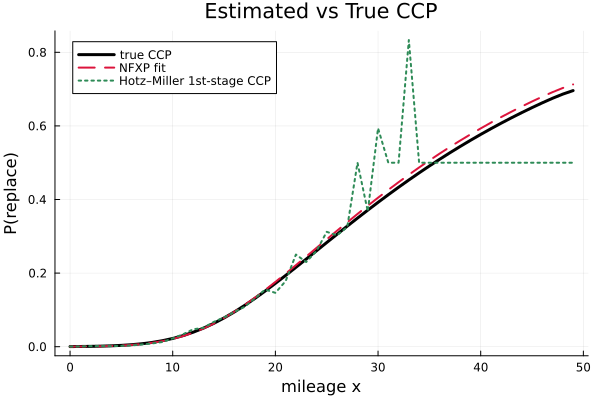
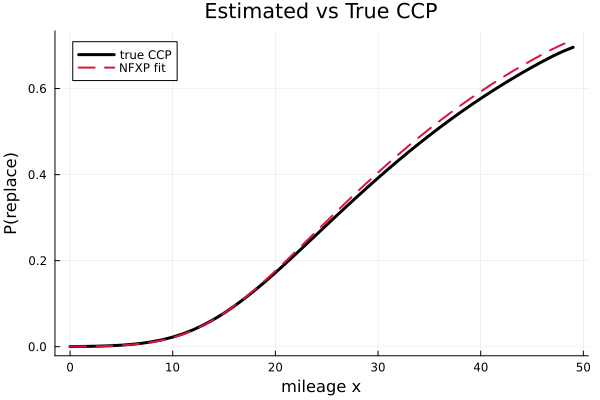
rust model update and pass through

diff --git a/rust-engine-replacement/README.md b/rust-engine-replacement/README.md
@@ -1,8 +1,6 @@
 # rust-engine-replacement-replication
 
-This repository solves **and estimates** Rust's (1987) optimal bus-engine replacement model in Julia — the paper that founded modern structural econometrics by showing how to recover a forward-looking agent's preferences from observed choices. Harold Zurcher, maintenance superintendent of the Madison Metropolitan Bus Company, watches each bus's accumulated mileage and every month decides whether to **keep** the engine (and pay rising maintenance) or **replace** it (a big fixed cost that resets the engine to new). The code solves his dynamic program by value-function iteration, then runs the full inference pipeline on simulated Harold-Zurcher data: the **Nested Fixed-Point (NFXP)** maximum-likelihood estimator (Rust 1987), the two-step **Hotz–Miller (1993)** conditional-choice-probability estimator, standard errors, a Monte-Carlo sampling-distribution study, and a counterfactual policy experiment.
-
-It is the dynamic-discrete-choice sibling of the McCall search model: where McCall has a reservation *wage*, Rust has a reservation *mileage*; both are forward-looking optimal-stopping problems, and both reduce to a single threshold. What Rust added — and what this repo is really about — is **estimation**: turning the solved model into a likelihood and recovering its deep parameters from data.
+This repository solves **and estimates** Rust's (1987) optimal bus-engine replacement model in Julia — the paper that founded modern structural econometrics by showing how to recover a forward-looking agent's preferences from observed choices. Harold Zurcher, maintenance superintendent of the Madison Metropolitan Bus Company, watches each bus's accumulated mileage and every month decides whether to **keep** the engine (and pay rising maintenance) or **replace** it (a big fixed cost that resets the engine to new). The code solves his dynamic program by value-function iteration, then runs the full inference pipeline on simulated Harold-Zurcher data: the **Nested Fixed-Point (NFXP)** maximum-likelihood estimator (Rust 1987), standard errors, a Monte-Carlo sampling-distribution study, and a counterfactual policy experiment.
 
 ---
 
@@ -13,22 +11,20 @@ It is the dynamic-discrete-choice sibling of the McCall search model: where McCa
 Each period Zurcher sees a bus at mileage state `x` and chooses `d ∈ {keep, replace}`:
 
 - **Keep** (`d = 0`): pay maintenance cost `c(x) = θ₁·x`. The engine ages — next period's mileage is higher, so next period's maintenance is higher too.
-- **Replace** (`d = 1`): pay a fixed replacement cost `RC`, and the engine is **good as new** (mileage resets to zero, then starts climbing again).
+- **Replace** (`d = 1`): pay a fixed replacement cost `RC`, and the engine is new (mileage resets to zero, then starts climbing again).
 
-The tension is **pay-a-little-forever vs. pay-a-lot-once**: maintenance is cheap today but compounds as the engine ages; replacement is expensive today but buys a fresh, cheap-to-run engine. Because today's keep raises tomorrow's costs, the decision is genuinely dynamic — Zurcher must weigh the entire future path of maintenance against the one-time `RC`.
+The tension is **pay-a-little-forever vs. pay-a-lot-once**: maintenance is cheap today but compounds as the engine ages; replacement is expensive today but buys a fresh, cheap-to-run engine. Because today's keep raises tomorrow's costs, the decision is dynamic — Zurcher must weigh the entire future path of maintenance against the one-time `RC`.
 
 ### The unobserved shocks — and why they're the whole point
 
-If that were the entire model, every bus at the same mileage would make the identical choice, and the data would show a clean mileage cutoff. Real data don't: buses at *similar* mileage make *different* choices. Rust's modeling move was to add **i.i.d. Type-I Extreme-Value (logit) shocks** `ε(keep), ε(replace)` that Zurcher observes — weather, a complaining driver, parts on hand, gut feeling — but the econometrician does not. Choices become **probabilistic**, which (a) matches the data and (b), because of two magical properties of the EV distribution, keeps everything in closed form:
+If that were the entire model, every bus at the same mileage would make the identical choice, and the data would show a clean mileage cutoff. Rust's modeling added **i.i.d. Type-I Extreme-Value (logit) shocks** `ε(keep), ε(replace)` that Zurcher observes — weather, a complaining driver, parts on hand, gut feeling — but that we do not. Choices become **probabilistic**, which (a) matches the data and (b), because of two magical properties of the EV distribution, keeps everything in closed form:
 
 | Result | Formula | What it drives |
 |---|---|---|
 | **Expected maximum** (log-sum-exp) | `E[max_d(v_d + ε_d)] = log Σ_d e^{v_d} (+ γ)` | the **Bellman equation** |
 | **Choice probability** (logit) | `P(d) = e^{v_d} / Σ_{d'} e^{v_{d'}}` | the **conditional choice probabilities (CCPs)** |
 
-`analyze.jl` §2 verifies both by Monte Carlo (simulated vs. theory agree to ≈0.005). These are the same formulas as static discrete-choice econometrics — the only difference is that here `v_keep` and `v_replace` are forward-looking continuation values, not static payoffs.
-
-### The cast of characters
+### Variables
 
 | Symbol | Plain meaning | Baseline |
 |---|---|---|
@@ -49,17 +45,13 @@ Solving the Bellman equation gives `v_keep(x)` (falling in mileage — keeping a
 
 > **`x* = 36`** at baseline — Zurcher is more likely than not to replace once a bus passes mileage bin 36. The implied **long-run replacement rate is 4.6%** per period, i.e. an engine lasts ≈ 22 periods.
 
-This is the exact dynamic-discrete-choice analog of McCall's reservation wage: *keep below the threshold, replace above it*, with the EV shocks smoothing the hard cutoff into a probability. The comparative statics (§3) read off the cost trade-off directly:
+*keep below the threshold, replace above it*:
 
 | Change | Effect on `x*` | Why |
 |---|---|---|
-| **`RC ↑`** (engines pricier) | ↑ (wait longer) | a costlier new engine isn't worth it until maintenance is really biting |
+| **`RC ↑`** (engines pricier) | ↑ (wait longer) | a costlier new engine isn't worth it until maintenance is really high |
 | **`θ₁ ↑`** (upkeep steeper) | ↓ (replace sooner) | fast-rising maintenance makes a fresh engine pay off earlier |
 | **`β ↑`** (more patient) | replace sooner | a forward-looking Zurcher pays now to avoid the future cost spiral |
-
-### A note on calibration
-
-The undergraduate lecture uses `RC = 20`, which (with `θ₁ = 0.04` and `S = 50`) makes replacement so cheap relative to lifetime maintenance that the hazard never reaches 0.5 on the grid — realistic for real bus engines, which almost never get replaced in a given month, but it hides the S-curve. This repo sets **`RC = 8`** so the reservation mileage `x* = 36` lands inside the grid and the full S-curve is visible. Rust's own estimates for his GMC fleet (groups 1–4, linear cost, mileage in thousands) are roughly **`RC ≈ 10`** and a maintenance slope an order of magnitude smaller, in thousands of 1985 dollars; the qualitative behavior is identical, only the units and the grid scale differ.
 
 ---
 
@@ -71,46 +63,13 @@ The undergraduate lecture uses `RC = 20`, which (with `θ₁ = 0.04` and `S = 50
 | `transitions.jl` | the keep/replace mileage transition matrices `F0, F1`; the controlled stationary distribution |
 | `solve.jl` | the dynamic program: log-sum-exp Bellman operator, VFI, and the logit CCPs |
 | `simulate.jl` | generates Harold-Zurcher panel data (the sawtooth mileage path) |
-| `estimate.jl` | structural estimation: θ₃ by counting, NFXP MLE + standard errors, Hotz–Miller CCP estimator |
+| `estimate.jl` | structural estimation: θ₃ by counting, NFXP MLE + standard errors |
 | `main.jl` | assembles the blocks and solves/prints the baseline |
 | `analyze.jl` | diagnostics, EV Monte-Carlo checks, comparative statics, estimation, the sampling-distribution study, and the counterfactual |
 
-Run order: `julia analyze.jl` (it `include`s `main.jl`, solves the baseline, then runs §1–§8 below and writes figures to `graphs/`). A full pass takes ~17 s. Requires `Optim`, `Distributions`, and `Plots`.
+Run order: `julia analyze.jl` (it `include`s `main.jl`, solves the baseline, then runs §1–§7 below and writes figures to `graphs/`). A full pass takes ~17 s. Requires `Optim`, `Distributions`, and `Plots`.
 
----
-
-## Walkthrough of `analyze.jl`
-
-### §1 — The model solution *(the central picture)*
-`fig_value_function.png` shows `V(x)` falling with mileage and the choice-specific values crossing at the reservation mileage; `fig_ccp.png` is the replacement hazard S-curve through `x* = 36`. The stationary distribution implies a **4.6% replacement rate** and a ≈22-period engine life.
-
-### §2 — The extreme-value machinery *(why it's all tractable)*
-A Monte-Carlo check of the two EV results that make the model solvable: the expected maximum is log-sum-exp (errors ≈ 0.005) and the choice probability is logit (errors ≈ 0.002). `fig_ev_results.png` overlays simulation on the closed forms across the value gap `v₁ − v₀`. These are the load-bearing assumptions — everything downstream is built on them.
-
-### §3 — Comparative statics *(the cost trade-off)*
-Sweeping `RC` shifts the hazard curve **right** (costlier engines → wait longer → `x*`: 27 → 48); sweeping `θ₁` shifts it **left** (steeper upkeep → replace sooner). `fig_comparative_statics.png` shows both families of S-curves. This is the structural content: behavior responds to the deep cost parameters in an economically sensible, *predictable* way — the foundation for the counterfactual in §8.
-
-### §4 — Simulation & the stationary mileage distribution *(model → data)*
-Under the optimal policy a bus's mileage traces the famous **sawtooth**: a slow climb, then a sharp reset at replacement (`fig_simulation.png`, left). The long-run mileage histogram (right) piles up at **low** mileage — engines rarely survive to high mileage before replacement. The simulated replacement rate (4.5%) matches the stationary prediction (4.6%).
-
-### §5 — Structural estimation: NFXP *(the headline method)*
-From a 50,000-period panel, recover the parameters. Step 1: `θ₃` by counting mileage increments — identified *without* the model (true `[0.36,0.48,0.16]` → estimated `[0.362,0.481,0.158]`). Step 2: `(RC, θ₁)` by **nested fixed-point MLE** — an outer Nelder–Mead search where *every trial parameter re-solves the entire dynamic program*. Recovery is sharp, with Hessian-based standard errors:
-
-| Parameter | True | NFXP estimate | Std. error |
-|---|---:|---:|---:|
-| `RC` | 8.0 | 8.28 | 0.156 |
-| `θ₁` | 0.04 | 0.0418 | 0.0011 |
-
-### §6 — Hotz–Miller (CCP) estimation *(the faster alternative, and its limits)*
-The two-step CCP estimator replaces the inner fixed point with a **single linear solve**: given first-stage choice probabilities, invert the logit identity `V = v_keep − log P_keep` to get the value function in one shot — no VFI. It recovers `RC = 7.67, θ₁ = 0.0368`: close, but visibly less accurate than NFXP. `fig_estimation.png` shows why — and it is the most instructive figure in the repo. The **renewal structure** (replacing resets mileage) means engines are almost always replaced before reaching high mileage, so **only 34 of 50 states are ever visited**. The first-stage CCP is accurate where data are plentiful (low mileage), noisy in the thin transition region, and undefined above the recurrent set (it flatlines at the prior). NFXP sidesteps this by imposing the model everywhere; pure CCP methods cannot identify what never happens. This trade-off — NFXP's accuracy vs. CCP methods' speed — is the central methodological debate the literature (Aguirregabiria–Mira, Arcidiacono–Miller) grew out of.
-
-### §7 — Monte-Carlo sampling distribution *(is the estimator any good?)*
-Re-estimate by NFXP on 40 independent panels (`T = 8,000` each). The estimates center on the truth — **`RC`: mean 8.03 (true 8.0), `θ₁`: mean 0.0405 (true 0.04)** — confirming the MLE is essentially unbiased. The spread is an internal-consistency check on §5's analytic standard errors: the Monte-Carlo `sd(RC) = 0.40` matches the §5 standard error `0.156` rescaled for the shorter panel, `0.156 × √(50000/8000) ≈ 0.39`. `fig_monte_carlo.png` plots both sampling histograms with the truth marked.
-
-### §8 — Counterfactual: a replacement subsidy *(the payoff of structure)*
-The reason to bother estimating a *structural* model: counterfactuals. Lowering `RC` (a government subsidy on new engines) makes Zurcher replace sooner and more often — the long-run replacement rate climbs from 3.3% at `RC = 12` to **12.4% at `RC = 3`** (`fig_counterfactual.png`). A reduced-form hazard fit to the *original* data could never predict this: it would hold the old replacement pattern fixed, whereas Zurcher **re-optimizes** when the cost changes. Capturing that re-optimization — the Lucas critique made operational — is exactly what the structural parameters buy.
-
----
+___
 
 ## Figures produced
 
@@ -121,9 +80,9 @@ The reason to bother estimating a *structural* model: counterfactuals. Lowering 
 | `fig_ev_results.png` | §2 | Monte-Carlo checks of log-sum-exp and the logit formula |
 | `fig_comparative_statics.png` | §3 | replacement hazard vs `RC` and vs `θ₁` |
 | `fig_simulation.png` | §4 | sawtooth mileage path & stationary mileage distribution |
-| `fig_estimation.png` | §6 | estimated vs true CCP — NFXP fit and Hotz–Miller first-stage |
-| `fig_monte_carlo.png` | §7 | sampling distributions of `RĈ` and `θ̂₁` |
-| `fig_counterfactual.png` | §8 | long-run replacement rate vs a replacement-cost subsidy |
+| `fig_estimation.png` | §5 | estimated vs true CCP — the NFXP fit |
+| `fig_monte_carlo.png` | §6 | sampling distributions of `RĈ` and `θ̂₁` |
+| `fig_counterfactual.png` | §7 | long-run replacement rate vs a replacement-cost subsidy |
 
 ---
 
@@ -131,8 +90,4 @@ The reason to bother estimating a *structural* model: counterfactuals. Lowering 
 
 - **Rust, J. (1987).** "Optimal Replacement of GMC Bus Engines: An Empirical Model of Harold Zurcher." *Econometrica* 55(5). The model, the EV-shock framework, and the Nested Fixed-Point MLE implemented here.
 - **Rust, J. (1988).** "Maximum Likelihood Estimation of Discrete Control Processes." *SIAM J. Control* — the general theory behind NFXP.
-- **Hotz, V. J. & Miller, R. A. (1993).** "Conditional Choice Probabilities and the Estimation of Dynamic Models." *REStud* 60(3). The CCP inversion behind the two-step estimator in §6.
-- **Hotz, Miller, Sanders & Smith (1994).** The CCP forward-simulation estimator that generalized the inversion.
-- **Aguirregabiria, V. & Mira, P. (2002, 2007).** Nested pseudo-likelihood — the iterated CCP estimator bridging Hotz–Miller and NFXP.
-- **Arcidiacono, P. & Miller, R. (2011).** Finite dependence and CCP estimation with unobserved heterogeneity — the modern frontier the renewal structure in §6 points toward.
 - **Ljungqvist, L. & Sargent, T. (2018).** *Recursive Macroeconomic Theory* — the dynamic-programming and discrete-choice background.

diff --git a/README.md b/README.md
@@ -10,7 +10,7 @@ Everything is written in Julia. Each model is self-contained, and its README exp
 |---|---|---|
 | [Aiyagari](Aiyagari%281984%29) | Aiyagari (1994), "Uninsured Idiosyncratic Risk and Aggregate Saving" | Heterogeneous agents with uninsurable income risk and a borrowing constraint; stationary general equilibrium via value function iteration and capital-market clearing |
 | [McCall job search](mccall-search-model) | McCall (1970), "Economics of Information and Job Search" | The reservation wage computed two independent ways, plus separations, risk aversion, persistent offers, and simulated unemployment durations |
-| [Rust engine replacement](rust-engine-replacement) | Rust (1987), "Optimal Replacement of GMC Bus Engines" | Solves and estimates the model: nested fixed point (NFXP) and Hotz–Miller CCP estimators, a Monte-Carlo study, and a counterfactual policy experiment |
+| [Rust engine replacement](rust-engine-replacement) | Rust (1987), "Optimal Replacement of GMC Bus Engines" | Solves and estimates the model: nested fixed-point (NFXP) maximum likelihood, a Monte-Carlo study, and a counterfactual policy experiment |
 | [Real business cycle](rbc-model) | Kydland & Prescott (1982), "Time to Build and Aggregate Fluctuations" | Value function iteration benchmark and Klein log-linearization, calibrated to quarterly U.S. data with an HP-filtered moment scorecard |
 
 

diff --git a/Aiyagari(1984)/README.md b/Aiyagari(1984)/README.md
@@ -8,7 +8,7 @@ The borrowing constraint can be either the Aiyagari **natural borrowing limit** 
 
 ## The economics: what Aiyagari is doing
 
-### The cast of characters
+### Variables
 
 The model has two players connected by one market:
 
